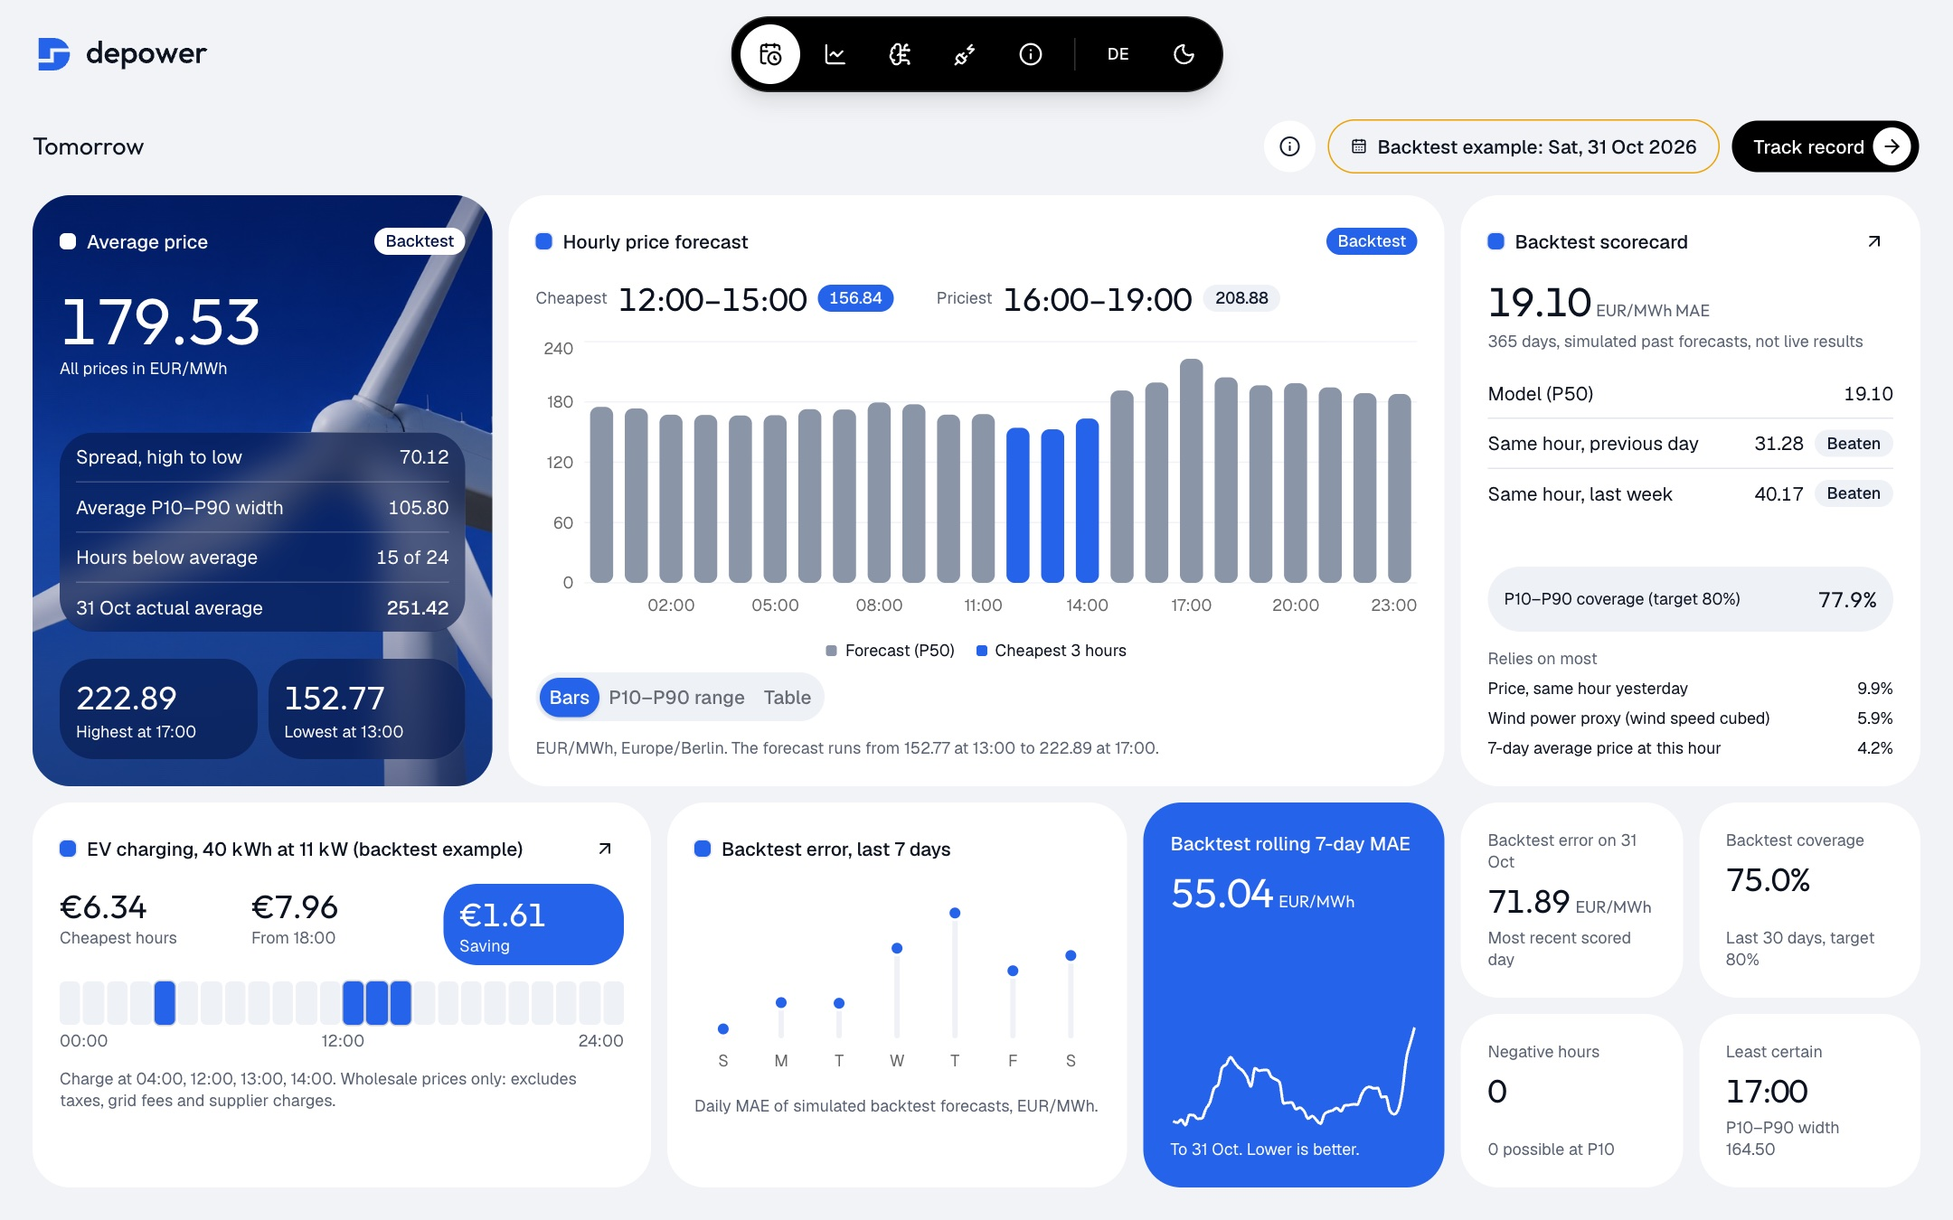
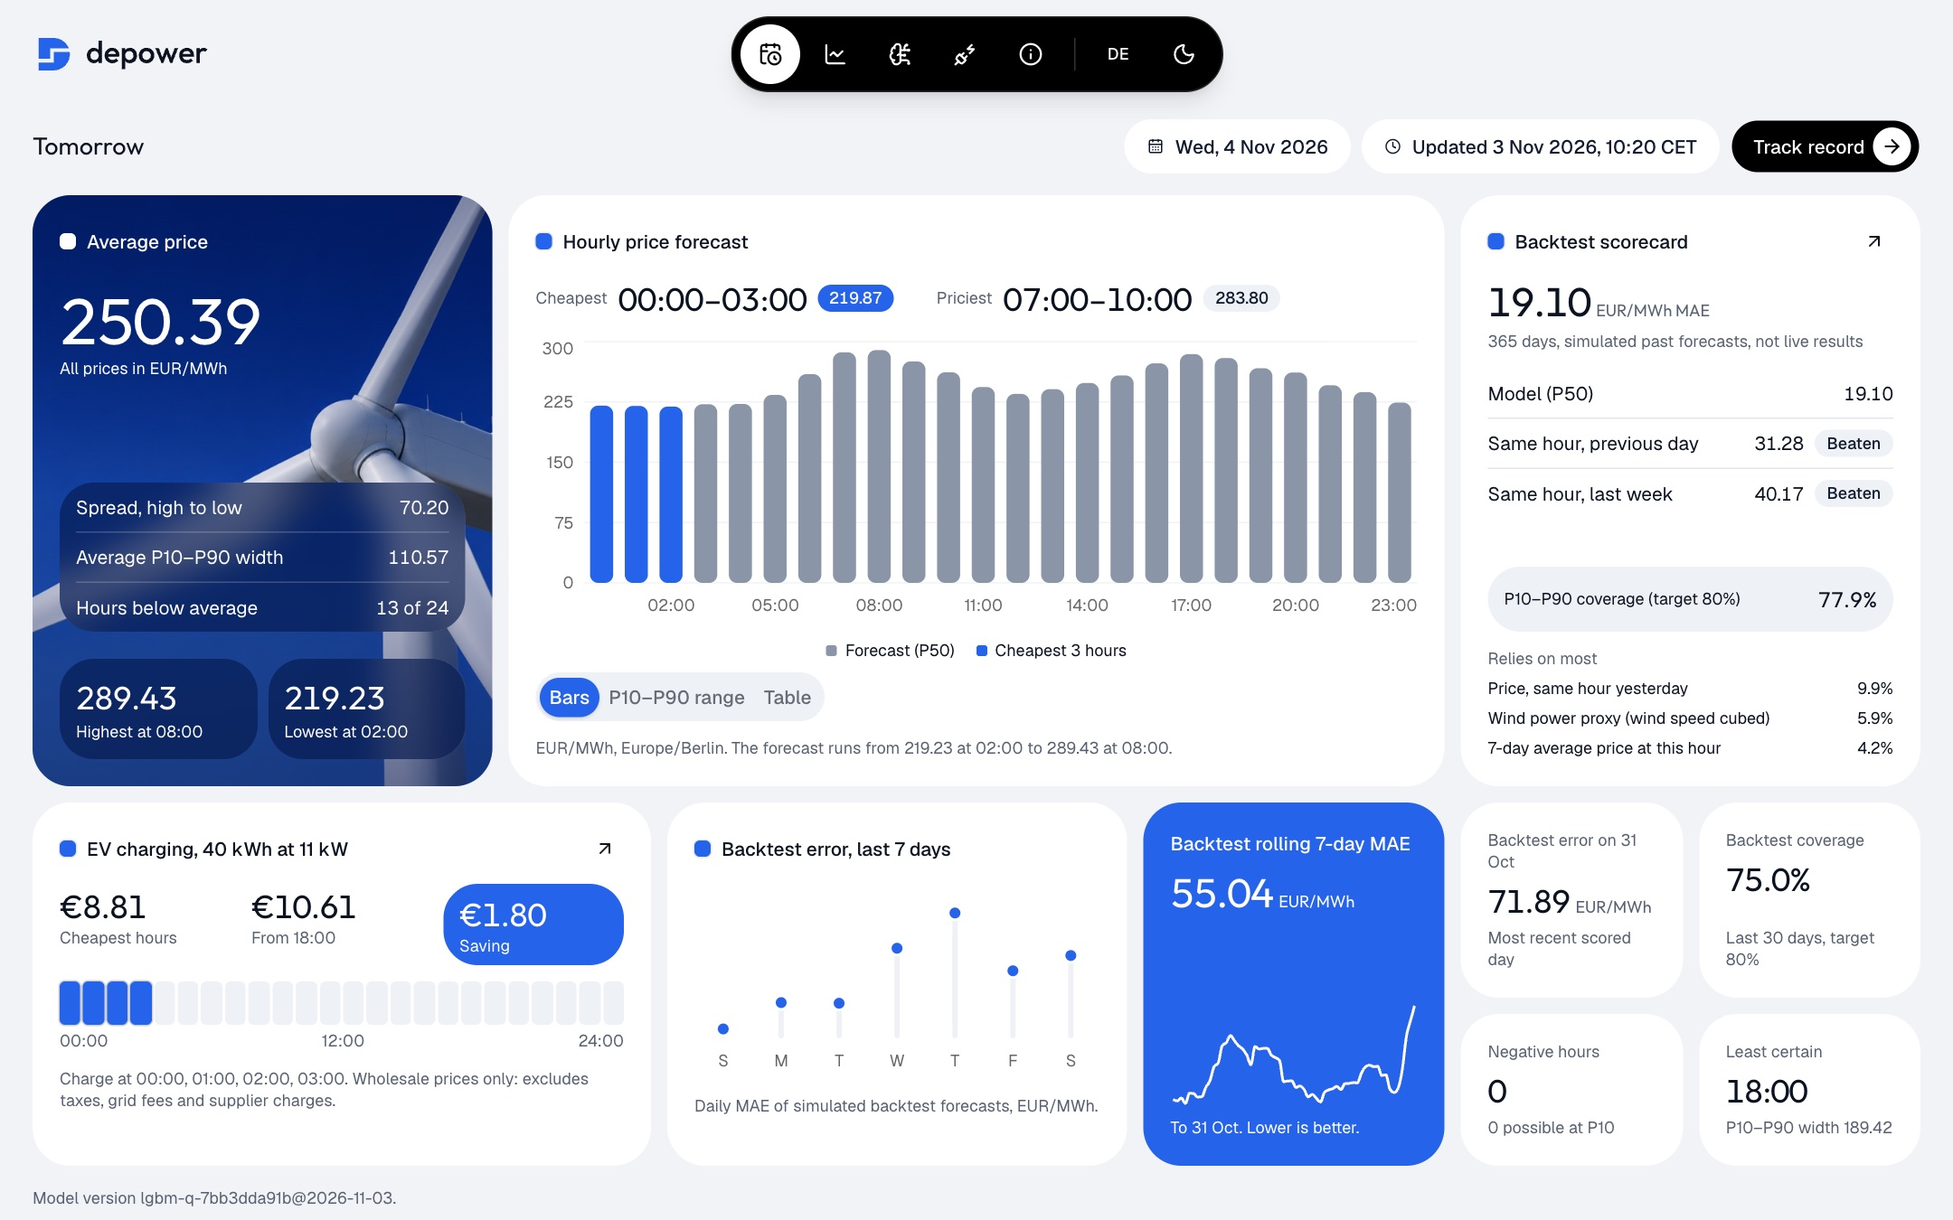
Show the first live forecast on the depower case study
Screenshots now show the live forecast for 4 November 2026. Scored live
results are not on the page yet; the charts remain the simulated backtest.

diff --git a/projects/depower/index.html b/projects/depower/index.html
@@ -43,8 +43,8 @@
   <section class="cs-panel" id="overview">
     <span class="label" data-i18n="ui_overview">Overview</span>
     <h2 data-i18n="ov_h">Any forecast can look good in hindsight. <span>depower commits to its numbers before the market does.</span></h2>
-    <p class="cs-lede" data-i18n="ov_p">Germany’s wholesale electricity prices for each hour of tomorrow are set in an auction at 12:00 today. Every morning before that, depower forecasts all 24 prices with a likely range for each hour, using grid data from SMARD and ECMWF weather forecasts. Each forecast is logged once and can’t be overwritten. When the real prices are published, it gets scored in public.</p>
-    <figure class="cs-shot"><img src="/public/resources/case-studies/depower-home.jpg" alt="The forecast view, showing a backtest example: average price, hourly bars, the cheapest window and an EV charging estimate." loading="lazy" decoding="async" /><figcaption data-i18n="ov_cap">The forecast view, showing a backtest example: average price, hourly bars, the cheapest window and an EV charging estimate.</figcaption></figure>
+    <p class="cs-lede" data-i18n="ov_p">Germany’s wholesale electricity prices for each hour of tomorrow are set in an auction at 12:00 today. Every morning before that, depower forecasts all 24 prices with a likely range for each hour, using grid data from SMARD and ECMWF weather forecasts. Each forecast is logged once and can’t be overwritten. When the real prices are published, it gets scored in public. Live forecasts began on 3 November 2026, for delivery the next day.</p>
+    <figure class="cs-shot"><img src="/public/resources/case-studies/depower-home.jpg" alt="The first live forecast, made on 3 November 2026 for the next day, with the simulated backtest scorecard beside it." loading="lazy" decoding="async" /><figcaption data-i18n="ov_cap">The first live forecast, made on 3 November 2026 for the next day, with the simulated backtest scorecard beside it.</figcaption></figure>
   </section>
 
   <section class="cs-plain" id="challenge">
@@ -101,7 +101,7 @@
   </section>
 </main>
 <script>
-const PAGE_DE={"ui_back": "← Alle Projekte", "ui_open": "Projekt öffnen", "ui_open_proto": "Prototyp öffnen", "ui_meta0": "Rolle", "ui_meta1": "Zeitraum", "ui_meta2": "Art", "ui_meta3": "Stack", "ui_overview": "Überblick", "ui_challenge": "Herausforderung &amp; Lösung", "ui_challenge_h": "Was es schwierig machte, <span>und wie ich es angegangen bin.<\/span>", "ui_the_challenge": "Die Herausforderung", "ui_the_solution": "Die Lösung", "ui_features": "Kernfunktionen", "ui_features_h": "Gebaut rund um das, <span>was Menschen wirklich brauchen.<\/span>", "ui_responsive": "Responsiv", "ui_screens": "Ansichten", "ui_screens_h": "Ein genauerer Blick <span>auf das Produkt.<\/span>", "ui_tech": "So funktioniert es", "ui_tech_h": "Unter der Haube.", "ui_client": "Kundenstimmen", "ui_takeaway": "Fazit", "ui_learned_h": "Was ich gelernt habe.", "ui_next": "Nächstes Projekt", "ui_view_case": "Fallstudie ansehen", "sn_top": "Einstieg", "sn_overview": "Überblick", "sn_challenge": "Herausforderung &amp; Lösung", "sn_features": "Kernfunktionen", "sn_screens": "Ansichten", "sn_tech": "So funktioniert es", "sn_client": "Kundenstimmen", "sn_takeaway": "Was ich gelernt habe", "ui_data": "In den Daten", "sn_data": "In den Daten", "profile": "Profil", "projects": "Projekte", "experience": "Erfahrung", "contact": "Kontakt", "resumeShort": "Lebenslauf", "connectLabel": "Kontakt aufnehmen", "connectTitle": "Eine Idee,<br /><em>die wir erkunden sollten?<\/em>", "workshops": "Workshops", "education": "Ausbildung", "awards": "Auszeichnungen", "volunteering": "Ehrenamt", "backTop": "Nach oben ↑", "label": "Data · Energieprognose", "summary": "Eine tägliche Prognose der deutschen Day-Ahead-Strompreise, festgeschrieben vor Auktionsschluss und öffentlich bewertet, sobald die echten Preise vorliegen.", "meta0": "Data Science &amp; Full-Stack-Entwicklung", "meta1": "2026", "meta2": "Persönliches Projekt", "meta3": "Python, LightGBM, Next.js", "ov_h": "Im Nachhinein sieht jede Prognose gut aus. <span>depower legt sich fest, bevor der Markt es tut.<\/span>", "ov_p": "Die deutschen Großhandelspreise für jede Stunde von morgen werden heute um 12:00 Uhr in einer Auktion festgelegt. Jeden Morgen davor prognostiziert depower alle 24 Preise samt wahrscheinlichem Bereich pro Stunde, auf Basis von Netzdaten von SMARD und ECMWF-Wetterprognosen. Jede Prognose wird einmal protokolliert und kann nicht überschrieben werden. Sobald die echten Preise veröffentlicht sind, wird sie öffentlich bewertet.", "ov_cap": "Die Prognoseansicht mit einem Backtest-Beispiel: Durchschnittspreis, Stundenbalken, günstigstes Zeitfenster und eine Schätzung fürs E-Auto-Laden.", "ch_t": "Eine Prognose ist nur ehrlich, wenn sie nutzt, was damals bekannt war", "ch0": "Schon ein einziger Wert, der nach der Auktion veröffentlicht wurde, lässt einen Backtest besser aussehen, als das Modell live je sein könnte.", "ch1": "SMARD speichert nicht, wann Werte veröffentlicht wurden, und manche Prognosereihen erscheinen offenbar erst nach Auktionsschluss.", "ch2": "Ein guter Fehlerwert allein beweist wenig. Es braucht einfache Vergleichswerte und eine klare Trennung zwischen simulierten und echten Ergebnissen.", "so_t": "Leakage erschweren, dann auch die Fehler zeigen", "so0": "Jede bereinigte Zeile trägt einen Verfügbarkeitszeitpunkt, und Features lesen nur über eine Sicht, die alles nach dem Stichzeitpunkt 11:30 Uhr verbirgt.", "so1": "Tests überschreiben Werte nach dem Stichzeitpunkt mit absurden Zahlen und prüfen, dass sich kein Feature ändert. Eine Prüfung aller 23.136 echten Feature-Zeilen fand keine jenseits ihres Stichzeitpunkts.", "so2": "Jeder Logeintrag speichert den Hash des vorherigen, und die CI schlägt fehl, wenn sich eine Prognose ändert. Das Dashboard zeigt Backtest und Live-Ergebnisse getrennt.", "f0t": "Die Preise von morgen", "f0d": "24 Stundenprognosen mit P10–P90-Bereichen sowie die günstigsten und teuersten Zeitfenster, als Balken, Bereiche oder Tabelle.", "f1t": "Öffentliche Erfolgsbilanz", "f1d": "Prognosen, bewertet an veröffentlichten Preisen und zwei einfachen Vergleichswerten, Live- und Backtest-Ergebnisse getrennt.", "f2t": "E-Auto-Laderechner", "f2d": "Findet die günstigsten Ladestunden in deinem Zeitfenster und schätzt die Ersparnis, nur auf Basis von Großhandelspreisen.", "g0": "E-Auto-Laden: Energie, Ladeleistung und Zeitfenster wählen und die günstigsten Stunden sehen", "g1": "Über das Projekt: Methode, Datenquellen und Lizenzen, mit klar benannten Grenzen", "g2": "Erfolgsbilanz: Prognose gegen tatsächlichen Preis, ohne Live-Ergebnisse zu behaupten, bevor es sie gibt", "g3": "Modell: Fehler gegenüber den Vergleichswerten, Bereichsabdeckung und ungewöhnliche Preisphasen", "ph_h": "Für jeden Bildschirm gebaut", "ph_p": "Auf dem Handy wird das Dashboard einspaltig, jede Ansicht bleibt nur einen Tipp entfernt.", "pt0": "Karten stapeln sich zu einer gut lesbaren Spalte", "pt1": "Die Navigation wandert in eine Leiste am unteren Rand", "pt2": "Englisch und Deutsch, passend zur Browsersprache", "t0k": "Daten", "t0v": "SMARD (Bundesnetzagentur) für Preise, Last und Erzeugung, Open-Meteo für ECMWF-Wetter an sechs Standorten und ein Offline-Feiertagspaket.", "t1k": "Modell", "t1v": "LightGBM-Quantilregression für P10, P50 und P90 mit 72 Features, im Backtest monatlich neu trainiert, mit konformer Kalibrierung pro Stunde.", "t2k": "Pipeline", "t2v": "Python und DuckDB. Rohdaten werden versioniert, Qualitätsprüfungen sichern jede Prognose ab, und ein später oder unvollständiger Lauf veröffentlicht nichts.", "t3k": "Frontend", "t3v": "Statischer Next.js-Export mit shadcn/ui und Recharts, auf Englisch und Deutsch.", "t4k": "Deployment", "t4v": "Docker-Container auf einem Hetzner-Server, gestartet von systemd-Timern um 10:20, 10:45 und 11:10 Uhr Berliner Zeit. GitHub Actions übernimmt die CI.", "learned": "Im ersten Backtest deckten meine P10–P90-Bereiche nur 58,5 % der echten Preise ab, obwohl es 80 % sein sollten. Die Kalibrierung brachte das auf 77,9 %, aber ich habe diese Korrektur erst nach dem Ergebnis gewählt, daher ist die Zahl womöglich etwas geschönt, und das Projekt sagt das auch. Daraus habe ich gelernt: Vertrauen gewinnt eine Prognose weniger durch ihren Fehlerwert als dadurch, dass sie zeigt, was sie sehen konnte, wo sie scheitert und was ein einfacher Vergleichswert geschafft hätte.", "data_h": "Der Backtest, <span>auch dort, wo er schwächelt.<\/span>", "data_p": "Alle Zahlen stammen aus dem veröffentlichten Bericht des Projekts: 365 Tage vom 1. November 2025 bis 31. Oktober 2026, das Modell monatlich nur mit früheren Daten neu trainiert. Das sind simulierte Prognosen, keine Live-Ergebnisse. Für genaue Werte hovern oder tippen.", "c0l": "Leakage-Regeln", "c0t": "Was das Modell um 11:30 Uhr sehen darf, eine halbe Stunde vor der Auktion.", "c0p": "Jeder Balken zeigt den Zeitraum, den eine Eingabe beitragen darf. Ein Balken überschreitet den Stichzeitpunkt nur, wenn diese Werte da schon veröffentlicht waren. Für die Begründung über eine Zeile hovern oder tippen.", "c0s": "Quelle: german-day-ahead-forecast, Leakage-Regeln im README. Die Balken beginnen am Diagrammrand; die Historie reicht weiter zurück.", "c1l": "Fehler nach Stunde", "c1t": "Es schlägt beide Vergleichswerte zu jeder Stunde. Die Abendspitze bleibt am schwierigsten.", "c1p": "Mittlerer absoluter Fehler (MAE) nach Berliner Stunde. Insgesamt liegt das Modell um 19,10 EUR/MWh daneben, gegenüber 31,28 beim Wiederholen des Vortagspreises und 40,17 beim Vorwochenpreis. Ein Klick auf einen Namen blendet ihn aus.", "c1s": "Quelle: data/backtest/report.json, by_hour, 8.760 bewertete Stunden.", "c2l": "Fehler nach Monat", "c2t": "September und Oktober 2026 waren mit Abstand die schwächsten Monate.", "c2p": "Der MAE lag bei 31,8 und 32,6 EUR/MWh, gegenüber 11,3 bis 20,1 in allen anderen Monaten. In der anderen Ansicht siehst du, wie oft reale Preise im P10–P90-Bereich lagen.", "c2s": "Quelle: data/backtest/report.json, by_month.", "c3l": "Ungewöhnliche Preise", "c3t": "Preisspitzen sind die größte Schwäche.", "c3p": "Bei den höchsten 5 % der Preise schlägt das Modell den Vortagspreis nur knapp, und sein Bereich verfehlt fast die Hälfte dieser Stunden. Die Zeiträume sind nachträglich nach dem tatsächlichen Preis gruppiert.", "c3s": "Quelle: data/backtest/report.json, by_regime. Top 5 % bedeutet ab 215,72 EUR/MWh.", "next_summary": "Ein historisches Formel-1-Dashboard auf Basis der OpenF1-Daten – Rennen, Telemetrie, Reifenstrategie und Meisterschaften, ergänzt um einen KI-Rennanalysten."};
+const PAGE_DE={"ui_back": "← Alle Projekte", "ui_open": "Projekt öffnen", "ui_open_proto": "Prototyp öffnen", "ui_meta0": "Rolle", "ui_meta1": "Zeitraum", "ui_meta2": "Art", "ui_meta3": "Stack", "ui_overview": "Überblick", "ui_challenge": "Herausforderung &amp; Lösung", "ui_challenge_h": "Was es schwierig machte, <span>und wie ich es angegangen bin.<\/span>", "ui_the_challenge": "Die Herausforderung", "ui_the_solution": "Die Lösung", "ui_features": "Kernfunktionen", "ui_features_h": "Gebaut rund um das, <span>was Menschen wirklich brauchen.<\/span>", "ui_responsive": "Responsiv", "ui_screens": "Ansichten", "ui_screens_h": "Ein genauerer Blick <span>auf das Produkt.<\/span>", "ui_tech": "So funktioniert es", "ui_tech_h": "Unter der Haube.", "ui_client": "Kundenstimmen", "ui_takeaway": "Fazit", "ui_learned_h": "Was ich gelernt habe.", "ui_next": "Nächstes Projekt", "ui_view_case": "Fallstudie ansehen", "sn_top": "Einstieg", "sn_overview": "Überblick", "sn_challenge": "Herausforderung &amp; Lösung", "sn_features": "Kernfunktionen", "sn_screens": "Ansichten", "sn_tech": "So funktioniert es", "sn_client": "Kundenstimmen", "sn_takeaway": "Was ich gelernt habe", "ui_data": "In den Daten", "sn_data": "In den Daten", "profile": "Profil", "projects": "Projekte", "experience": "Erfahrung", "contact": "Kontakt", "resumeShort": "Lebenslauf", "connectLabel": "Kontakt aufnehmen", "connectTitle": "Eine Idee,<br /><em>die wir erkunden sollten?<\/em>", "workshops": "Workshops", "education": "Ausbildung", "awards": "Auszeichnungen", "volunteering": "Ehrenamt", "backTop": "Nach oben ↑", "label": "Data · Energieprognose", "summary": "Eine tägliche Prognose der deutschen Day-Ahead-Strompreise, festgeschrieben vor Auktionsschluss und öffentlich bewertet, sobald die echten Preise vorliegen.", "meta0": "Data Science &amp; Full-Stack-Entwicklung", "meta1": "2026", "meta2": "Persönliches Projekt", "meta3": "Python, LightGBM, Next.js", "ov_h": "Im Nachhinein sieht jede Prognose gut aus. <span>depower legt sich fest, bevor der Markt es tut.<\/span>", "ov_p": "Die deutschen Großhandelspreise für jede Stunde von morgen werden heute um 12:00 Uhr in einer Auktion festgelegt. Jeden Morgen davor prognostiziert depower alle 24 Preise samt wahrscheinlichem Bereich pro Stunde, auf Basis von Netzdaten von SMARD und ECMWF-Wetterprognosen. Jede Prognose wird einmal protokolliert und kann nicht überschrieben werden. Sobald die echten Preise veröffentlicht sind, wird sie öffentlich bewertet. Die Live-Prognosen starteten am 3. November 2026, für die Lieferung am Folgetag.", "ov_cap": "Die erste Live-Prognose vom 3. November 2026 für den Folgetag, daneben die simulierte Backtest-Bilanz.", "ch_t": "Eine Prognose ist nur ehrlich, wenn sie nutzt, was damals bekannt war", "ch0": "Schon ein einziger Wert, der nach der Auktion veröffentlicht wurde, lässt einen Backtest besser aussehen, als das Modell live je sein könnte.", "ch1": "SMARD speichert nicht, wann Werte veröffentlicht wurden, und manche Prognosereihen erscheinen offenbar erst nach Auktionsschluss.", "ch2": "Ein guter Fehlerwert allein beweist wenig. Es braucht einfache Vergleichswerte und eine klare Trennung zwischen simulierten und echten Ergebnissen.", "so_t": "Leakage erschweren, dann auch die Fehler zeigen", "so0": "Jede bereinigte Zeile trägt einen Verfügbarkeitszeitpunkt, und Features lesen nur über eine Sicht, die alles nach dem Stichzeitpunkt 11:30 Uhr verbirgt.", "so1": "Tests überschreiben Werte nach dem Stichzeitpunkt mit absurden Zahlen und prüfen, dass sich kein Feature ändert. Eine Prüfung aller 23.136 echten Feature-Zeilen fand keine jenseits ihres Stichzeitpunkts.", "so2": "Jeder Logeintrag speichert den Hash des vorherigen, und die CI schlägt fehl, wenn sich eine Prognose ändert. Das Dashboard zeigt Backtest und Live-Ergebnisse getrennt.", "f0t": "Die Preise von morgen", "f0d": "24 Stundenprognosen mit P10–P90-Bereichen sowie die günstigsten und teuersten Zeitfenster, als Balken, Bereiche oder Tabelle.", "f1t": "Öffentliche Erfolgsbilanz", "f1d": "Prognosen, bewertet an veröffentlichten Preisen und zwei einfachen Vergleichswerten, Live- und Backtest-Ergebnisse getrennt.", "f2t": "E-Auto-Laderechner", "f2d": "Findet die günstigsten Ladestunden in deinem Zeitfenster und schätzt die Ersparnis, nur auf Basis von Großhandelspreisen.", "g0": "E-Auto-Laden: Energie, Ladeleistung und Zeitfenster wählen und die günstigsten Stunden sehen", "g1": "Über das Projekt: Methode, Datenquellen und Lizenzen, mit klar benannten Grenzen", "g2": "Erfolgsbilanz: Prognose gegen tatsächlichen Preis, ohne Live-Ergebnisse zu behaupten, bevor es sie gibt", "g3": "Modell: Fehler gegenüber den Vergleichswerten, Bereichsabdeckung und ungewöhnliche Preisphasen", "ph_h": "Für jeden Bildschirm gebaut", "ph_p": "Auf dem Handy wird das Dashboard einspaltig, jede Ansicht bleibt nur einen Tipp entfernt.", "pt0": "Karten stapeln sich zu einer gut lesbaren Spalte", "pt1": "Die Navigation wandert in eine Leiste am unteren Rand", "pt2": "Englisch und Deutsch, passend zur Browsersprache", "t0k": "Daten", "t0v": "SMARD (Bundesnetzagentur) für Preise, Last und Erzeugung, Open-Meteo für ECMWF-Wetter an sechs Standorten und ein Offline-Feiertagspaket.", "t1k": "Modell", "t1v": "LightGBM-Quantilregression für P10, P50 und P90 mit 72 Features, im Backtest monatlich neu trainiert, mit konformer Kalibrierung pro Stunde.", "t2k": "Pipeline", "t2v": "Python und DuckDB. Rohdaten werden versioniert, Qualitätsprüfungen sichern jede Prognose ab, und ein später oder unvollständiger Lauf veröffentlicht nichts.", "t3k": "Frontend", "t3v": "Statischer Next.js-Export mit shadcn/ui und Recharts, auf Englisch und Deutsch.", "t4k": "Deployment", "t4v": "Docker-Container auf einem Hetzner-Server, gestartet von systemd-Timern um 10:20, 10:45 und 11:10 Uhr Berliner Zeit. GitHub Actions übernimmt die CI.", "learned": "Im ersten Backtest deckten meine P10–P90-Bereiche nur 58,5 % der echten Preise ab, obwohl es 80 % sein sollten. Die Kalibrierung brachte das auf 77,9 %, aber ich habe diese Korrektur erst nach dem Ergebnis gewählt, daher ist die Zahl womöglich etwas geschönt, und das Projekt sagt das auch. Daraus habe ich gelernt: Vertrauen gewinnt eine Prognose weniger durch ihren Fehlerwert als dadurch, dass sie zeigt, was sie sehen konnte, wo sie scheitert und was ein einfacher Vergleichswert geschafft hätte.", "data_h": "Der Backtest, <span>auch dort, wo er schwächelt.<\/span>", "data_p": "Alle Zahlen stammen aus dem veröffentlichten Bericht des Projekts: 365 Tage vom 1. November 2025 bis 31. Oktober 2026, das Modell monatlich nur mit früheren Daten neu trainiert. Das sind simulierte Prognosen, keine Live-Ergebnisse. Für genaue Werte hovern oder tippen.", "c0l": "Leakage-Regeln", "c0t": "Was das Modell um 11:30 Uhr sehen darf, eine halbe Stunde vor der Auktion.", "c0p": "Jeder Balken zeigt den Zeitraum, den eine Eingabe beitragen darf. Ein Balken überschreitet den Stichzeitpunkt nur, wenn diese Werte da schon veröffentlicht waren. Für die Begründung über eine Zeile hovern oder tippen.", "c0s": "Quelle: german-day-ahead-forecast, Leakage-Regeln im README. Die Balken beginnen am Diagrammrand; die Historie reicht weiter zurück.", "c1l": "Fehler nach Stunde", "c1t": "Es schlägt beide Vergleichswerte zu jeder Stunde. Die Abendspitze bleibt am schwierigsten.", "c1p": "Mittlerer absoluter Fehler (MAE) nach Berliner Stunde. Insgesamt liegt das Modell um 19,10 EUR/MWh daneben, gegenüber 31,28 beim Wiederholen des Vortagspreises und 40,17 beim Vorwochenpreis. Ein Klick auf einen Namen blendet ihn aus.", "c1s": "Quelle: data/backtest/report.json, by_hour, 8.760 bewertete Stunden.", "c2l": "Fehler nach Monat", "c2t": "September und Oktober 2026 waren mit Abstand die schwächsten Monate.", "c2p": "Der MAE lag bei 31,8 und 32,6 EUR/MWh, gegenüber 11,3 bis 20,1 in allen anderen Monaten. In der anderen Ansicht siehst du, wie oft reale Preise im P10–P90-Bereich lagen.", "c2s": "Quelle: data/backtest/report.json, by_month.", "c3l": "Ungewöhnliche Preise", "c3t": "Preisspitzen sind die größte Schwäche.", "c3p": "Bei den höchsten 5 % der Preise schlägt das Modell den Vortagspreis nur knapp, und sein Bereich verfehlt fast die Hälfte dieser Stunden. Die Zeiträume sind nachträglich nach dem tatsächlichen Preis gruppiert.", "c3s": "Quelle: data/backtest/report.json, by_regime. Top 5 % bedeutet ab 215,72 EUR/MWh.", "next_summary": "Ein historisches Formel-1-Dashboard auf Basis der OpenF1-Daten – Rennen, Telemetrie, Reifenstrategie und Meisterschaften, ergänzt um einen KI-Rennanalysten."};
 const langBtn=document.querySelector('.language-toggle');const origText={};
 document.querySelectorAll('[data-i18n]').forEach(el=>{origText[el.dataset.i18n]=el.innerHTML});
 let lang='en';try{lang=localStorage.getItem('site-language')||((navigator.language||'en').toLowerCase().startsWith('de')?'de':'en')}catch(e){}
